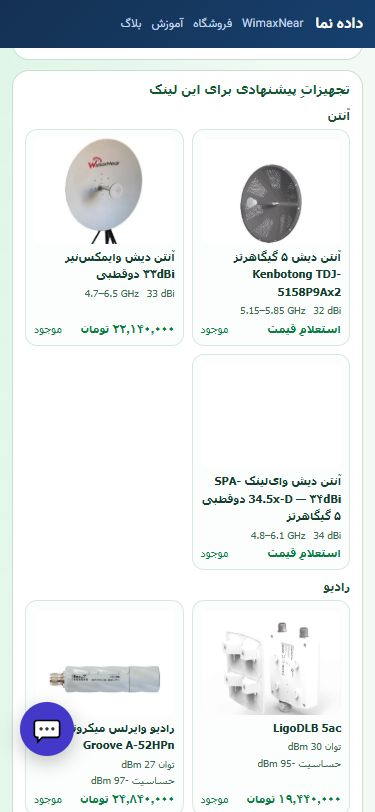
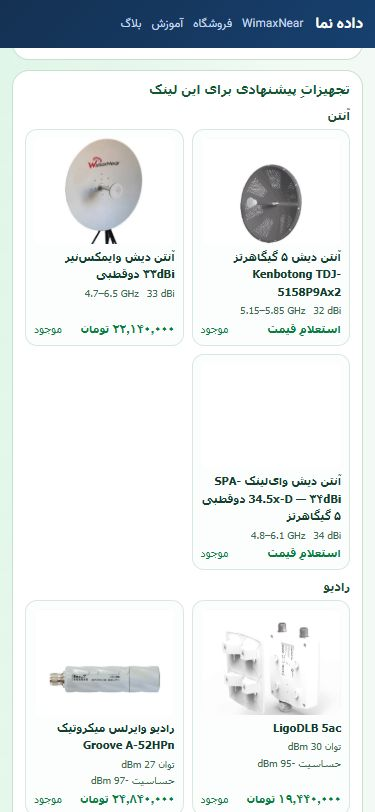
دادهلینک: چیدمانِ منطقیِ دسکتاپ، حذفِ دکمهٔ قیمت، گینِ قابلِ ویرایش، حبابِ چت
به خواستِ مالک چیدمانِ وب دیگر کپیِ اپ نیست. دسکتاپِ ۱۲۰۰ به بالا سه ستون است: ورودیها،
نتیجه و کارها، و نقشهٔ بلندِ همقد. پیشنهادها تمامعرض زیرِ همه. دکمهٔ «تنظیم آنتن» روی
دسکتاپ پنهان است چون نقشه همیشه در دید است. دکمهٔ «قیمت تجهیزات» حذف شد.
خانهٔ گینِ دستی کادر، پسزمینه و نشانهٔ ✎ گرفت تا قابلِ اصلاح دیده شود (در زبانهٔ
تجهیزات، که عدد از دیتاشیت است، بیکادر میماند).
حبابِ چت در موبایل وقتی ابزار روی صفحه است پنهان میشود؛ هر جای ثابتی در اسکرول روی
عددی میافتاد. پس از ابزار برمیگردد. اسکرینشاتها تازه شد.

Changed region(s): [[0.0293, 0.8621, 0.2053, 0.9544]]

diff --git a/src/main/resources/templates/link-cal.html b/src/main/resources/templates/link-cal.html
@@ -32,11 +32,11 @@
 
     <link href="/css/fonts/Vazirmatn-font-face.css" rel="stylesheet">
     <link href="/css/site-nav.css" rel="stylesheet">
-    <link href="/tools/dadehlink/dadehlink.css?v=10" rel="stylesheet">
+    <link href="/tools/dadehlink/dadehlink.css?v=12" rel="stylesheet">
     <style>
         body { margin:0; font-family:Vazirmatn, Tahoma, sans-serif; color:#1f2937;
                background:radial-gradient(ellipse at top left,#c2efd380,transparent 60%),#f3faf5; }
-        .lc-page { max-width:1160px; margin:0 auto; padding:14px 16px 8px; }
+        .lc-page { max-width:1360px; margin:0 auto; padding:14px 16px 8px; }
         .lc-page .crumb { font-size:.8rem; color:#6b7280; margin:0 0 4px; }
         .lc-page .crumb a { color:#17406f; text-decoration:none; }
         .lc-page h1 { font-size:1.35rem; line-height:1.6; margin:0 0 8px; color:#145632; text-align:center; }
@@ -62,7 +62,9 @@
         /* حبابِ چتِ سایت در موبایل: جایش با اندازهگیری در ۳۷۵×۸۱۲ انتخاب شد؛ در نمای اول روی
            هیچ عددی نیست (پیشفرضِ ۹۲ پیکسل روی حساسیتِ گیرنده مینشست). html:root از :rootِ
            تزریقشدهٔ ویجت قویتر است. */
-        @media (max-width:768px) { html:root { --dn-chat-bottom:56px; } }
+        /* حبابِ چت در موبایل وقتی ابزار روی صفحه است پنهان میشود: هر جای ثابتی در اسکرول روی
+           عددی میافتاد. بعد از ابزار (متنِ صفحه) دوباره میآید. پنلِ بازِ چت دست نمیخورد. */
+        @media (max-width:768px) { body.dl-tool-in-view .dn-chat-bubble { display:none !important; } }
         @media (max-width:599px) {
             .lc-page { padding:10px 0 8px; }
             .lc-page .crumb, .lc-page h1 { padding:0 16px; }
@@ -100,7 +102,7 @@
 <header><div class="tools"><button class="icon" id="helpBtn" aria-label="راهنما"><svg viewBox="0 0 24 24" fill="none" stroke="currentColor" stroke-width="1.7"><circle cx="12" cy="12" r="9"/><path d="M9.5 9a2.5 2.5 0 015 .5c0 2-2.5 2-2.5 4M12 16v1"/></svg></button></div><span class="version">v1.1.0-rc3</span><a class="brand" href="/" aria-label="سایت دادهنما"><img src="/tools/dadehlink/logo.png" width="96" height="72" alt="دادهنما"><b dir="ltr">DadehLink</b><svg class="brandDish" viewBox="0 0 24 24" fill="none" stroke="currentColor" stroke-width="1.7" aria-hidden="true"><path d="M5 5a12 12 0 0014 14L5 5zM12 12l6-6M17 4l3 3M10 17l-2 5h10M16 17l2 5"/></svg></a></header>
 <nav class="dlTabs" role="tablist" aria-label="نوعِ محاسبه"><button type="button" role="tab" id="tabCalc" aria-selected="true" class="on">محاسبه لینک وایرلس</button><button type="button" role="tab" id="tabEquip" aria-selected="false">محاسبه بر اساسِ تجهیزات</button></nav>
 <div class="caption"><strong>محاسبهٔ لینک نقطهبهنقطه<span class="subtitle" dir="ltr">PTP Link Budget</span></strong></div>
-<nav class="quicknav"><button id="alignBtn">تنظیم آنتن</button><a href="/shop/category/antenna-dish" id="pricesBtn">قیمت تجهیزات ↗</a></nav>
+<nav class="quicknav"><button id="alignBtn">تنظیم آنتن</button></nav>
 <div class="dl-in"><section class="equip" id="dlEquip" hidden aria-label="انتخابِ تجهیزات"></section><section class="panel" aria-label="پارامترهای لینک" id="fields"></section>
 <div class="antennaTitle"><strong>آنتنها <span dir="ltr">Antenna Gain</span></strong><span>گین دستی یا محاسبه از روی قطر</span></div>
 <section class="antennas" id="antennas"></section>
@@ -186,11 +188,20 @@ window.DADEHLINK_CONFIG = {
 };
 </script>
 <script src="/tools/dadehlink/engine/rf.js"></script>
-<script src="/tools/dadehlink/app.js?v=9"></script>
-<script src="/tools/dadehlink/alignment.js?v=9"></script>
-<script src="/tools/dadehlink/gate.js?v=10"></script>
-<script src="/tools/dadehlink/equipment.js?v=11"></script>
+<script src="/tools/dadehlink/app.js?v=12"></script>
+<script src="/tools/dadehlink/alignment.js?v=12"></script>
+<script src="/tools/dadehlink/gate.js?v=12"></script>
+<script src="/tools/dadehlink/equipment.js?v=12"></script>
 
+<script>
+(function () {
+    var tool = document.getElementById('dlApp');
+    if (!tool || !('IntersectionObserver' in window)) return;
+    new IntersectionObserver(function (es) {
+        document.body.classList.toggle('dl-tool-in-view', es[0].isIntersecting);
+    }, {rootMargin: '0px 0px -60px 0px'}).observe(tool);
+})();
+</script>
 <script src="/js/chat-core.js"></script>
 <script src="/js/support-chat-widget.js"></script>
 <script src="/js/dn-track.js"></script>

diff --git a/src/main/resources/static/tools/dadehlink/dadehlink.css b/src/main/resources/static/tools/dadehlink/dadehlink.css
@@ -538,14 +538,14 @@ body:has(.dl .modal.open) .dn-chat-bubble,body:has(.dl .modal.open) .dn-chat-pan
 .dl .dl-in,.dl .dl-out{display:contents}
 @media(min-width:900px){
 .dl .app{max-width:1120px;display:grid;grid-template-columns:minmax(0,1.15fr) minmax(0,1fr);
-  grid-template-areas:"head head" "tabs tabs" "in nav" "in out" "in align" "sugg sugg";grid-template-rows:auto auto auto auto 1fr auto;
+  grid-template-areas:"head head" "tabs tabs" "in out" "in align" "sugg sugg";grid-template-rows:auto auto auto 1fr auto;
   column-gap:28px;row-gap:12px;padding:22px 28px 26px;margin:6px auto 0}
 .dl .app header{grid-area:head;height:44px;margin:0 0 4px}
 .dl .app .brand{height:44px}.dl .app .brand img{width:52px;height:40px}.dl .app .brand b{font-size:26px}
 .dl .brandDish{width:26px;height:30px}
 .dl .app .version{font-size:11px;padding:5px 9px;top:12px}.dl .app .tools{top:4px}
 .dl .app .icon{width:40px;height:40px}.dl .icon svg{width:20px;height:20px}
-.dl .app .quicknav{grid-area:nav;margin:0;gap:10px}
+.dl .app .quicknav{display:none}
 .dl .app .quicknav>*{min-height:42px;font-size:14px;padding:10px 8px}
 .dl .dl-in{display:block;grid-area:in;min-width:0}
 .dl .dl-out{display:flex;flex-direction:column;gap:12px;grid-area:out;align-self:start;min-width:0}
@@ -610,4 +610,23 @@ body:has(.dl .modal.open) .dn-chat-bubble,body:has(.dl .modal.open) .dn-chat-pan
 /* پنجرهٔ تنظیمِ آنتن روی دسکتاپ پهنتر، تا نقشه به کار بیاید */
 .dl .modal .alignSheet{max-width:980px;height:min(88vh,860px);padding:18px 22px}
 .dl .alignCanvas>svg{max-height:440px}
+}
+
+/* ── گینِ دستی باید قابلِ ویرایش دیده شود (خواستهٔ مالک) ─────────────
+   در اپ عددِ بزرگِ بیکادر بود و کسی نمیفهمید میشود عوضش کرد. */
+.dl .app .antgain input{border:1px solid #b9dcc6;background:#f1faf4;border-radius:9px;cursor:text;box-shadow:inset 0 1px 2px #0b47280d}
+.dl .app .antgain input:hover{border-color:#087b43}
+.dl .app .antgain input:focus{outline:2px solid #0a8150;outline-offset:1px;background:#fff}
+.dl .antgain::after{content:"✎";font-size:12px;color:#5f8f72;align-self:center}
+.dl .app.eqMode .antgain input{border-color:transparent;background:transparent;box-shadow:none;cursor:default}
+.dl .app.eqMode .antgain::after{content:none}
+
+/* ── دسکتاپِ پهن (۱۲۰۰ به بالا): سه ستونِ منطقی، مستقل از چیدمانِ اپ ──
+   راست: ورودیها (پارامترها و آنتنها). وسط: نتیجه و کارها. چپ: نقشهٔ بلند همقدِ
+   دو ستونِ دیگر. پیشنهادها تمامعرض زیرِ همه. */
+@media(min-width:1200px){
+.dl .app{max-width:1320px;grid-template-columns:minmax(0,1.1fr) minmax(0,1fr) minmax(0,1fr);
+  grid-template-areas:"head head head" "tabs tabs tabs" "in out align" "sugg sugg sugg";grid-template-rows:auto auto auto auto}
+.dl .app .dl-align{grid-area:align;align-self:stretch;display:flex;flex-direction:column}
+.dl .app .dl-align .alignCanvas{flex:1;height:auto;min-height:460px;aspect-ratio:auto}
 }

diff --git a/src/main/resources/static/tools/dadehlink/alignment.js b/src/main/resources/static/tools/dadehlink/alignment.js
@@ -17,7 +17,6 @@ const originalWeather=weatherDialog;
 weatherDialog=function(){originalWeather();if(!CITY_PRESETS.length){const opened=$('weatherCity');citiesReady.then(()=>{if(CITY_PRESETS.length&&$('weatherCity')===opened)fillCities()});return}fillCities()};
 function fillCities(){const sel=$('weatherCity');for(let i=0;i<CITY_PRESETS.length;i++){const opt=document.createElement('option');opt.value=i;opt.textContent=CITY_PRESETS[i].name;sel.append(opt)}let savedCity='manual';try{savedCity=localStorage.getItem('dadehlink.weatherCity')||'manual'}catch(e){}if(CITY_PRESETS[+savedCity]&&[['rate','rainRate'],['temp','temp'],['humidity','humidity'],['pressure','pressure']].every(([a,b])=>CITY_PRESETS[+savedCity][a]===state[b]))sel.value=savedCity;const applyCity=$('applyAtmos').onclick;$('applyAtmos').onclick=()=>{if($('applyAtmos').disabled)return;try{localStorage.setItem('dadehlink.weatherCity',sel.value)}catch(e){}applyCity()};sel.onchange=()=>{if(sel.value==='manual')return;const c=CITY_PRESETS[+sel.value];for(const [k,v]of Object.entries({rainRate:c.rate,temp:c.temp,humidity:c.humidity,pressure:c.pressure})){$(k+'Input').value=v;$(k+'Input').dispatchEvent(new Event('input'))}};for(const id of ['rainRateInput','rainRateRange','tempInput','tempRange','humidityInput','humidityRange','pressureInput','pressureRange'])$(id).addEventListener('input',e=>{if(e.isTrusted)sel.value='manual'})}
 $('atmosBtn').onclick=weatherDialog;
-$('pricesBtn').href=APP_CONFIG.pricesUrl;
 const Geo={
  route(a,b){const r=geodesic.Geodesic.WGS84.Inverse(a.lat,a.lon,b.lat,b.lon);return {distance:r.s12,bearing:(r.azi1+360)%360}},
  point(lat,lon){return Number.isFinite(lat)&&Number.isFinite(lon)&&Math.abs(lat)<=85&&Math.abs(lon)<=180},
